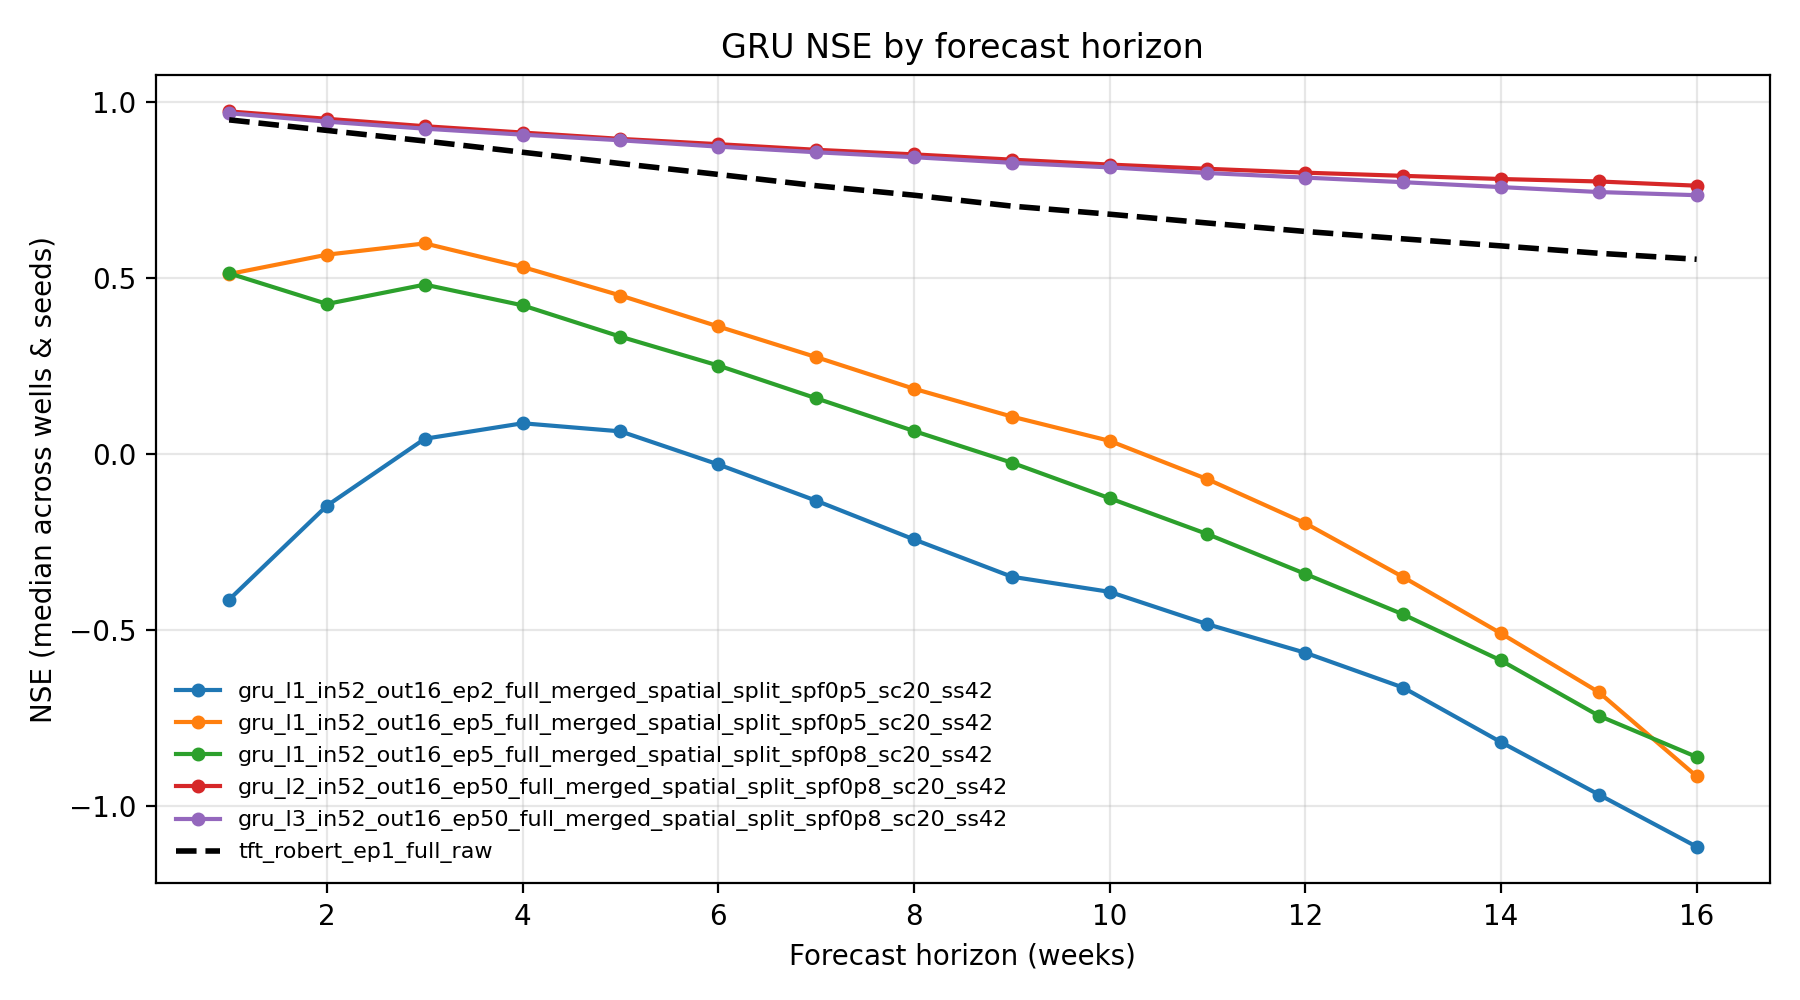
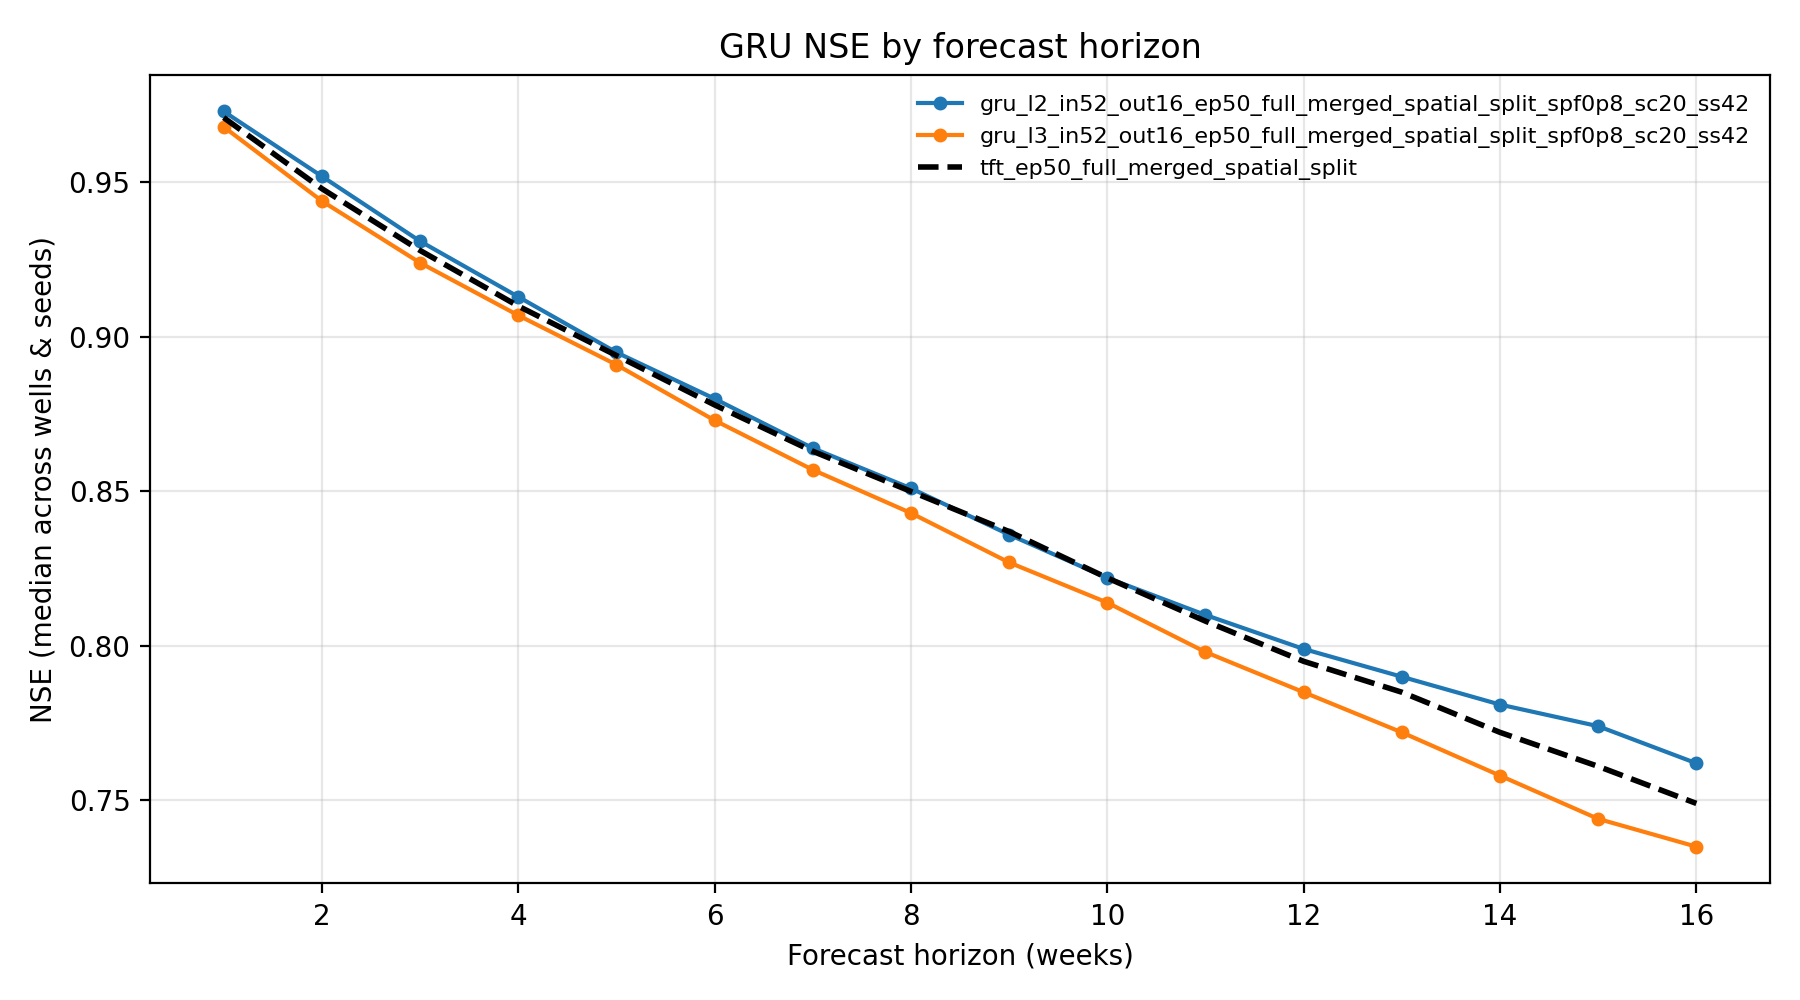
updated gru metrics and plots to show newest full runs

diff --git a/src/analysis/build_gru_metrics_summary.py b/src/analysis/build_gru_metrics_summary.py
@@ -226,8 +226,8 @@ def main() -> None:
     # Plot NSE by horizon for each run
     fig, ax = plt.subplots(figsize=(9, 5))
     plot_df = final[
-        ~final["run"].str.contains("_sample", na=False)
-        & ~final["run"].str.contains("_ep1_", na=False)
+        final["run"].str.contains("_ep50_", na=False)
+        & final["run"].str.contains("spf0p8", na=False)
     ].copy()
     for run_label in plot_df["run"].unique():
         sub = plot_df[plot_df["run"] == run_label].sort_values("horizon")
@@ -236,16 +236,16 @@ def main() -> None:
     # Overlay a TFT reference line (if available) for direct comparison in one figure.
     if TFT_SUMMARY_CSV.exists():
         tft = pd.read_csv(TFT_SUMMARY_CSV)
-        tft_ep1 = tft[tft["run"] == "robert_ep1_full_raw"].copy()
-        if not tft_ep1.empty:
-            tft_ep1 = tft_ep1.sort_values("horizon")
+        tft_ref = tft[tft["run"] == "robert_ep50_full_merged_spatial_split"].copy()
+        if not tft_ref.empty:
+            tft_ref = tft_ref.sort_values("horizon")
             ax.plot(
-                tft_ep1["horizon"],
-                tft_ep1["NSE"],
+                tft_ref["horizon"],
+                tft_ref["NSE"],
                 linestyle="--",
                 linewidth=2,
                 color="black",
-                label="tft_robert_ep1_full_raw",
+                label="tft_ep50_full_merged_spatial_split",
             )
 
     ax.set_xlabel("Forecast horizon (weeks)")
